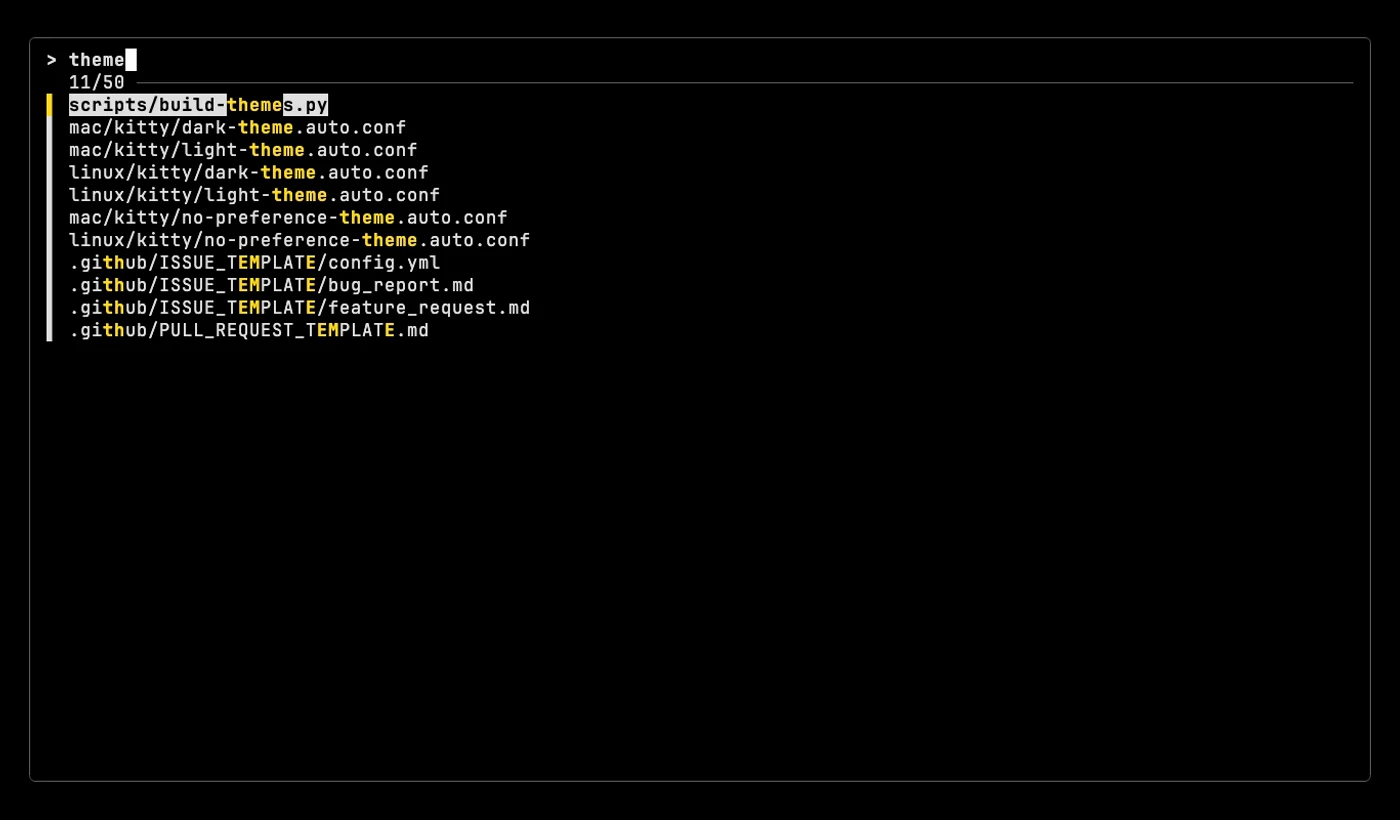
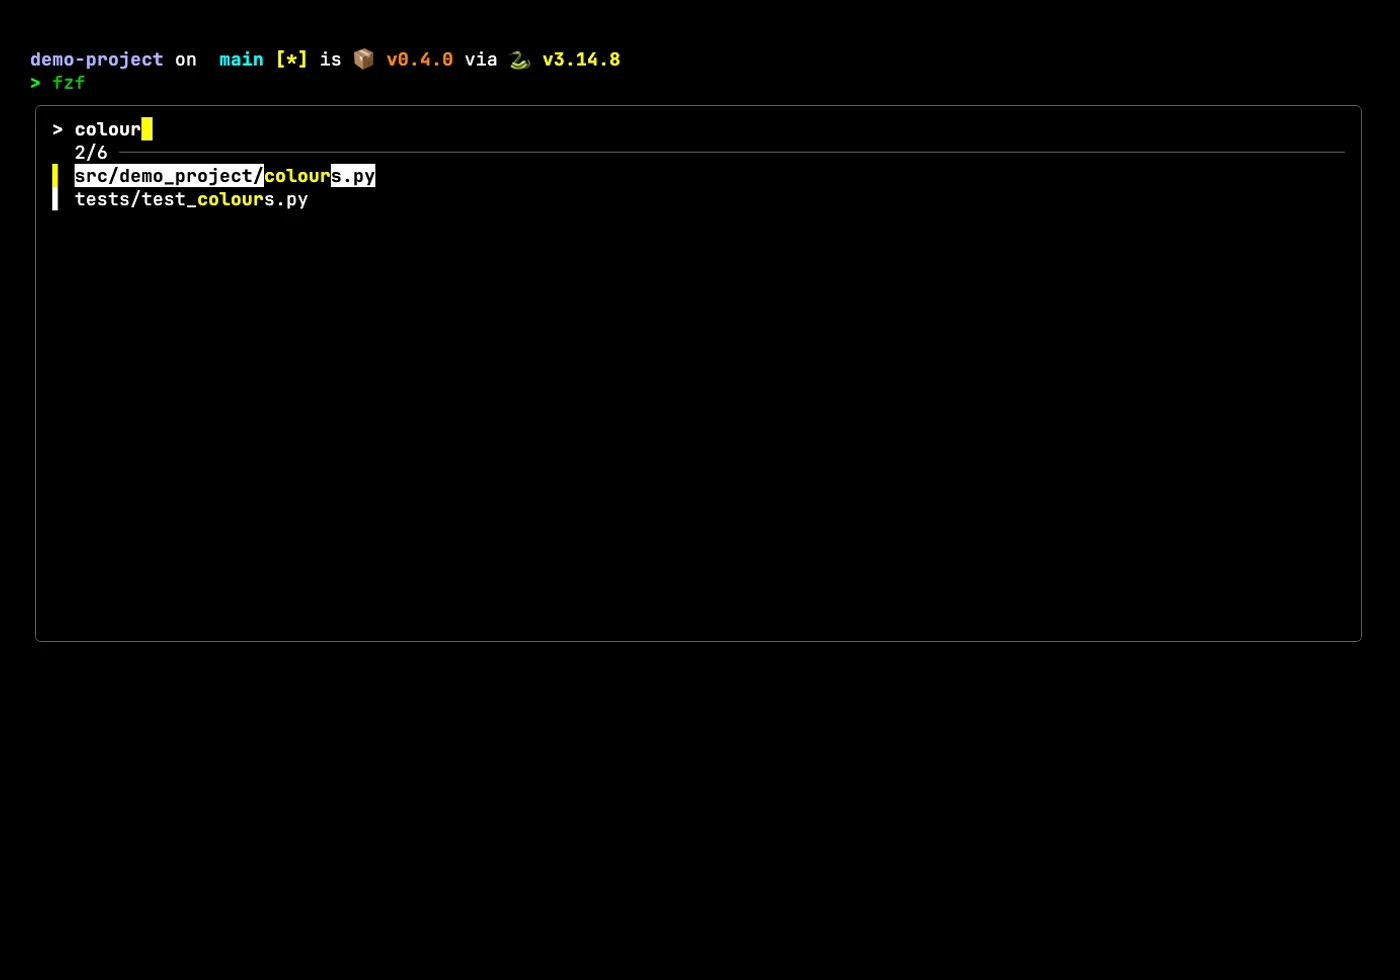
docs: re-record the demo media in Zacess Deep Contrast (#16)
Closes #15

Changed region(s): [[0.0, 0.0305, 0.9521, 0.4268]]

diff --git a/README.md b/README.md
@@ -5,19 +5,33 @@
 
 ## In action
 
-Screenshots in the High Contrast palette, dark and light. Each one links to a short animation of the same scene.
+Screenshots in Zacess Deep Contrast Dark and Light, recorded in a demo project. Each one links
+to a short animation of the same scene.
 
 ### lazygit
 
 | Dark | Light |
 | --- | --- |
-| [![Dark: lazygit showing a modified README with its diff and the commit list](docs/demo/lazygit-dark.webp)](docs/demo/lazygit-dark.gif) | [![Light: lazygit showing a modified README with its diff and the commit list](docs/demo/lazygit-light.webp)](docs/demo/lazygit-light.gif) |
+| [![Dark: lazygit showing two changed files with their diff, the branch and the commit list](docs/demo/lazygit-dark.webp)](docs/demo/lazygit-dark.gif) | [![Light: lazygit showing two changed files with their diff, the branch and the commit list](docs/demo/lazygit-light.webp)](docs/demo/lazygit-light.gif) |
 
 ### fzf
 
 | Dark | Light |
 | --- | --- |
-| [![Dark: fzf filtering the repository's files for the word theme with the matches highlighted](docs/demo/fzf-dark.webp)](docs/demo/fzf-dark.gif) | [![Light: fzf filtering the repository's files for the word theme with the matches highlighted](docs/demo/fzf-light.webp)](docs/demo/fzf-light.gif) |
+| [![Dark: fzf filtering a project's files for the word colour with the matches highlighted](docs/demo/fzf-dark.webp)](docs/demo/fzf-dark.gif) | [![Light: fzf filtering a project's files for the word colour with the matches highlighted](docs/demo/fzf-light.webp)](docs/demo/fzf-light.gif) |
+
+### Re-recording
+
+Each scene is a [VHS](https://github.com/charmbracelet/vhs) script in [`docs/demo`](docs/demo),
+recorded once per theme in a throwaway demo under `/tmp/demo`, so the shots show the real config
+with nothing personal on screen. The colours come from
+[Zacess Themes](https://github.com/zacesshq/themes).
+
+```sh
+brew install vhs gifsicle webp
+docs/demo/record.sh           # every scene, dark and light
+docs/demo/record.sh fzf       # one scene, by its file name
+```
 
 ## What's here
 

diff --git a/CHANGELOG.md b/CHANGELOG.md
@@ -11,6 +11,7 @@ Versioning follows [Semantic Versioning](https://semver.org/spec/v2.0.0.html).
 
 ### Added
 
+- The screenshots and clips are recorded again in Zacess Deep Contrast Dark and Light from VHS scripts in `docs/demo`, using the real config in a throwaway demo project. `docs/demo/record.sh` makes them all again with one command.
 - Screenshots and short animations of the config in action, dark and light, in the README's In action section.
 
 ### Changed
